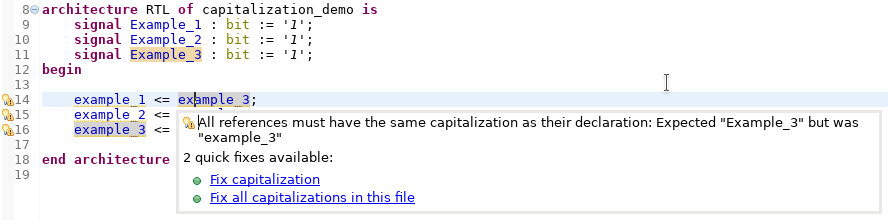
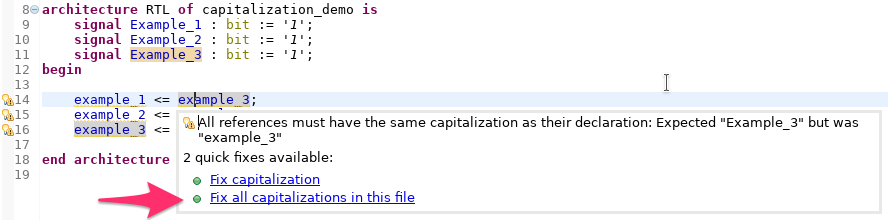
More screenshots + workspace update warning

Changed region(s): [[0.0912, 0.8182, 0.2128, 1.0]]

diff --git a/releasenotes/sigasi-3.06.md b/releasenotes/sigasi-3.06.md
@@ -28,8 +28,7 @@ The syntax of the Graphic Configuration files is explained in "[/tech/graphics.e
 
 # Improved Dependencies Viewer (VHDL)
 
-Sigasi Studio's [dependencies view](/manual/views#dependencies) has a new skin. Its visuals are now in line with Block Diagram and Statemachine Views.
-
+Sigasi Studio's [dependencies view](/manual/views#dependencies) has a new skin. Its visuals are now in line with Block Diagram and Statemachine Views.  
 ![Old and New dependencies view](/releasenotes/3.6/dependencies_view.png)
 
 # Extra external tools
@@ -67,15 +66,20 @@ Double clicking in preprocessor code now selects individual words instead of the
 
 Sigasi Studio 3.6 is build on top of the newly released [Eclipse Oxygen](https://eclipse.org/oxygen/) platform. This brings a number of UI and other improvements. You can find all new and noteworthy changes in Eclipse Oxygen on the [Eclipse website](http://www.eclipse.org/eclipse/news/4.7/)
 
+If you open an existing workspace after the update to Sigasi Studio 3.6, you might see a warning about updating your workspace. You can safely confirm the update by clicking **OK**.  
+![Workspace Warning](3.6/workspace_older_version_warning.png)
+
 # Other new and noteworthy improvements
 
 * Better library mapping menu (easier to undo "exclude from build")
 * We updated the bundled Java Runtime Environment (JRE) to 8u144 (Note that this only applies to a fresh download of the stand-alone version. The JRE is not updated via the embedded update mechanism)
 * The CSV file export now uses *relative paths* for linked files too
 * We added a [quickFix for VUnit libraries][/tech/vunit-quickfix]
+![Quickfix for the VUnit library](/tech/vunit/quickfix.png)
 * Block Diagram: `buffer` ports are now displayed as output ports
 * Block Diagram: visual distinction between `input` and `inout` ports
-* We added a new quickfix to correct the capitalization of all references in the entire VHDL source file.
+* We added a new quickfix to correct the capitalization of all references in the entire VHDL source file.  
+![Correct the capitalization of all references in the entire VHDL source file.](/releasenotes/3.6/capitalization_all.png)
 * We simplified the [EULA][/eula]
 * New linting check: redundant `= true` or `= false` in boolean expressions
 
